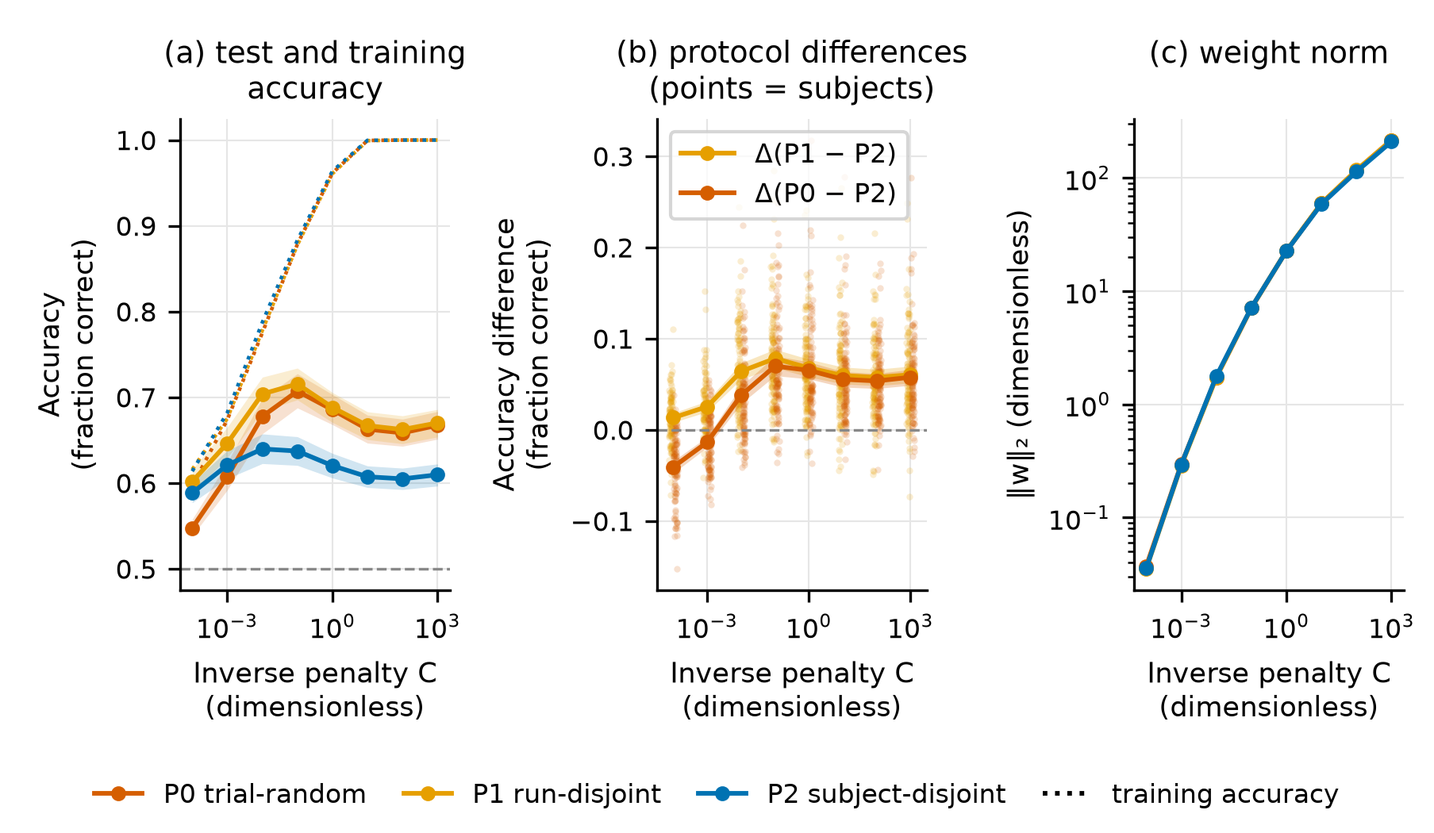
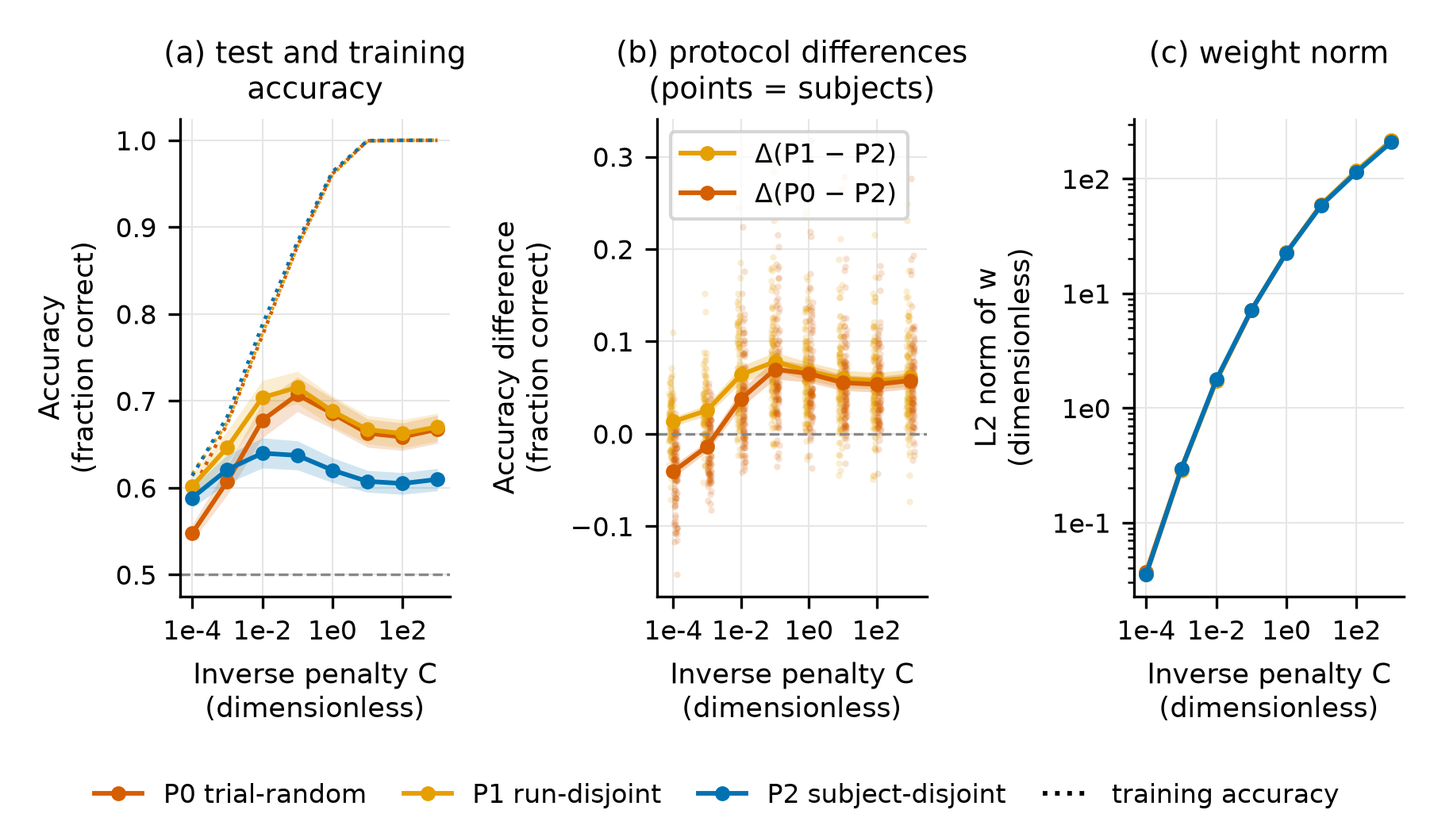
Revision suite r004: plain-label figure ticks with a rendered-glyph gate, caption corrections, concrete source index

diff --git a/test/experiments/revision/fig_common.py b/test/experiments/revision/fig_common.py
@@ -11,6 +11,12 @@ every figure is drawn at FIG_W_IN = 6.024 in, the measured text width of the com
 (433.70 pt on main_clean.pdf), and saved at exactly that canvas size (no bbox_inches="tight"), so the
 placement scale factor is 1.000 and the generated point sizes are the printed point sizes. No text is
 below 8 pt; MIN_PT below is asserted over every text artist before the file is written.
+
+Codex r003 finding F-r003-5: Text.get_fontsize() reports the PARENT size of a mathtext expression, so a
+$\\ell_2$ subscript or a 10^{-4} log-tick exponent passed that check while rendering at 5.6-6.0 pt. The
+vector companion is therefore written FIRST and re-measured with pymupdf (assert_pdf_min_glyph); a figure
+whose PDF carries any text span below MIN_PT is deleted, not published. plain_log_ticks() replaces the
+mathtext power-of-ten tick labels with plain strings drawn at the full tick font size.
 """
 
 from __future__ import annotations
@@ -30,6 +36,9 @@ FIG_DIR = C.ROOT / "result" / "figure" / "revision"
 # \linewidth of manuscript/v2 measured with fitz on main_clean.pdf: 433.70 pt = 6.024 in.
 FIG_W_IN = 6.024
 MIN_PT = 8.0  # IOP minimum text size at the final figure size
+# Width the figures actually occupy in main_clean.pdf (fitz, r003 audit): 433.718994 pt, i.e. the PDF
+# companion (6.024 in = 433.728 pt) is placed at scale 0.99998, so native pt == printed pt to 2e-4 pt.
+PLACED_W_PT = 433.718994
 
 # fixed hue order (Okabe–Ito), validated: protocols and models never share a slot within one figure
 PROTO_COLOR = {"within_subject": "#009E73", "within_session": "#009E73", "trial_random": "#D55E00", "trial_random_6": "#D55E00",
@@ -65,6 +74,73 @@ def min_font_pt(fig) -> float:
         if str(t.get_text()).strip() and t.get_visible():
             sizes.append(float(t.get_fontsize()))
     return min(sizes) if sizes else float("nan")
+
+
+def pdf_glyph_spans(pdf_path):
+    """(page width in pt, [(size_pt, text, font)]) for every non-blank text span of a saved figure PDF.
+
+    Measured with pymupdf on the vector companion, so these are the sizes the glyphs are ACTUALLY drawn
+    at — including mathtext sub/superscripts, which Text.get_fontsize() reports at the parent size.
+    """
+    import pymupdf  # noqa: PLC0415  (fitz; only needed when a figure is written)
+
+    doc = pymupdf.open(str(pdf_path))
+    page_w = float(doc[0].rect.width)
+    spans = []
+    for page in doc:
+        for block in page.get_text("rawdict").get("blocks", []):
+            for line in block.get("lines", []):
+                for span in line.get("spans", []):
+                    txt = "".join(ch["c"] for ch in span.get("chars", []))
+                    if txt.strip():
+                        spans.append((float(span["size"]), txt, str(span.get("font", ""))))
+    doc.close()
+    return page_w, spans
+
+
+def assert_pdf_min_glyph(pdf_path, name, min_pt=MIN_PT, delete_on_fail=True):
+    """Refuse a figure whose PDF companion carries a rendered glyph below min_pt at the placed width.
+
+    F-r003-5: this is the check that catches mathtext scaling. The figure is saved at FIG_W_IN, so the
+    page width must equal the placed width; the printed size of a span is size * PLACED_W_PT / page_w.
+    Returns the smallest printed size. Raises SystemExit (and removes the file) otherwise; also raises if
+    the PDF holds no text at all, so "verified nothing" cannot look like "nothing to verify".
+    """
+    pdf_path = Path(pdf_path)
+    page_w, spans = pdf_glyph_spans(pdf_path)
+
+    def fail(msg):
+        if delete_on_fail:
+            pdf_path.unlink(missing_ok=True)
+        raise SystemExit(f"{name}: {msg}")
+
+    if abs(page_w - FIG_W_IN * 72.0) > 0.5:
+        fail(f"pdf page width {page_w:.2f} pt != {FIG_W_IN * 72.0:.2f} pt (printed sizes would not be 1:1)")
+    if not spans:
+        fail(f"no text span found in {pdf_path.name} — the glyph guard would verify nothing")
+    scale = PLACED_W_PT / page_w
+    small = sorted({(round(s * scale, 4), t) for s, t, _ in spans if s * scale < min_pt - 1e-3})
+    if small:
+        for pt, t in small[:10]:
+            print(f"  GLYPH BELOW {min_pt} PT: {pt} pt {t!r}")
+        fail(f"{len(small)} rendered glyph size(s) below {min_pt} pt in the PDF companion (mathtext?)")
+    return min(s * scale for s, _, _ in spans)
+
+
+def plain_log_ticks(ax, which, values, fmt=None):
+    """Label a log axis with plain strings instead of 10^{x} mathtext (whose exponent renders at 5.6 pt).
+
+    `values` are the data positions to label; minor ticks keep their marks but lose their labels, so the
+    smallest glyph on the axis is the tick font size itself (F-r003-5).
+    """
+    from matplotlib.ticker import FixedFormatter, FixedLocator, NullFormatter
+
+    fmt = fmt or (lambda v: f"{v:g}")
+    axis = ax.xaxis if which == "x" else ax.yaxis
+    vals = list(values)
+    axis.set_major_locator(FixedLocator(vals))
+    axis.set_major_formatter(FixedFormatter([fmt(v) for v in vals]))
+    axis.set_minor_formatter(NullFormatter())
 
 
 def wrap_to_width(fig, text, fontsize, frac=0.97):
@@ -202,7 +278,8 @@ def save(fig, name: str, caption: str, data_files: list[Path]):
     """PNG (300 dpi) + PDF + caption .txt naming the data files; also a large-font pptx with the PNG.
 
     Saved at the exact canvas size (no tight bbox) so that the placed scale is 1.000; refuses to write
-    a figure whose canvas is not the manuscript line width or that carries text below MIN_PT.
+    a figure whose canvas is not the manuscript line width, that carries a text artist below MIN_PT, or
+    whose PDF companion contains a glyph rendered below MIN_PT (mathtext sub/superscripts, F-r003-5).
     """
     FIG_DIR.mkdir(parents=True, exist_ok=True)
     w_in, h_in = fig.get_size_inches()
@@ -219,10 +296,13 @@ def save(fig, name: str, caption: str, data_files: list[Path]):
         print("  TEXT OFF CANVAS:", c)
     if clashes or clipped:
         raise SystemExit(f"{name}: {len(clashes)} overlapping text pairs, {len(clipped)} texts off the canvas")
-    print(f"{name}: canvas {w_in:.3f} x {h_in:.3f} in, smallest text {smallest:.1f} pt (scale 1.000 at placement)")
     png = FIG_DIR / f"{name}.png"
+    pdf = FIG_DIR / f"{name}.pdf"
+    fig.savefig(pdf)  # vector companion first: it is what the rendered-glyph guard measures
+    min_glyph = assert_pdf_min_glyph(pdf, name)  # deletes the pdf and stops if any glyph prints < MIN_PT
     fig.savefig(png)
-    fig.savefig(FIG_DIR / f"{name}.pdf")
+    print(f"{name}: canvas {w_in:.3f} x {h_in:.3f} in, smallest text artist {smallest:.1f} pt, "
+          f"smallest rendered glyph {min_glyph:.4f} pt (scale 1.000 at placement)")
     def rel(p: Path) -> str:
         p = Path(p).resolve()
         return str(p.relative_to(C.ROOT)) if str(p).startswith(str(C.ROOT)) else str(p)

diff --git a/test/experiments/revision/fig4_sweep.py b/test/experiments/revision/fig4_sweep.py
@@ -1,6 +1,10 @@
 #!/usr/bin/env python3
-"""Figure 4 — regularization sweep v2 (E2): both accuracy curves, training accuracy, ||w||, and the
-protocol differences with per-subject points. Paradigm mean over the four EEGBCI paradigms.
+"""Figure 4 — regularization sweep v2 (E2): both accuracy curves, training accuracy, the L2 norm of w, and
+the protocol differences with per-subject points. Paradigm mean over the four EEGBCI paradigms.
+
+Codex r003 finding F-r003-5: the log axes were labelled by the default formatter as 10^{-4} mathtext, whose
+exponent printed at 5.6 pt. The decades are now labelled with plain strings at the full tick size, and
+fig_common.save() re-measures every glyph in the PDF companion before the figure is written.
 Usage: fig4_sweep.py --e2 <per_subject.csv> --tag rev1  (the per-fold CSV is found by name)
 """
 
@@ -19,6 +23,13 @@ import common as C  # noqa: E402
 import fig_common as F  # noqa: E402
 
 PROTOS = ["trial_random", "run_disjoint", "subject_disjoint"]
+# F-r003-5: the default log formatter writes 10^{-4} as mathtext, whose exponent prints at 5.6 pt.
+# These decades are labelled with plain "1e-4" strings instead (fig_common.plain_log_ticks), drawn at the
+# full tick size; the spelling is compact enough not to collide in a 1/3-width panel ("0.0001" does).
+C_TICKS = [1e-4, 1e-2, 1e0, 1e2]
+WNORM_TICKS = [1e-2, 1e-1, 1e0, 1e1, 1e2]
+DEC = lambda v: f"1e{round(np.log10(v)):.0f}"  # noqa: E731  plain decade label, no mathtext
+XLAB = "Inverse penalty C\n(dimensionless)"
 SHORT = {"trial_random": "P0 trial-random", "run_disjoint": "P1 run-disjoint", "subject_disjoint": "P2 subject-disjoint"}
 
 
@@ -60,7 +71,7 @@ def main() -> int:
         ax.plot(Cs, [np.mean(tr_acc[(p, c)]) for c in Cs], ls=":", lw=1.1, color=F.PROTO_COLOR[p])
         cap.append(f"{p}: " + ", ".join(f"C={c:g}: {m:.3f}" for c, m in zip(Cs, means)))
     ax.plot([], [], ls=":", color="black", label="training accuracy")
-    ax.set_xscale("log"); ax.set_xlabel("Inverse penalty C\n(dimensionless)"); ax.set_ylabel("Accuracy\n(fraction correct)")
+    ax.set_xscale("log"); F.plain_log_ticks(ax, "x", C_TICKS, DEC); ax.set_xlabel(XLAB); ax.set_ylabel("Accuracy\n(fraction correct)")
     ax.axhline(0.5, color="#888888", lw=0.8, ls="--"); ax.set_title("(a) test and training\naccuracy")
     handles_a, labels_a = ax.get_legend_handles_labels()
     ax = axes[1]
@@ -78,19 +89,21 @@ def main() -> int:
         ax.plot(Cs, means, marker="o", ms=3.5, color=col, label=lab, zorder=5)
         ax.fill_between(Cs, los, his, color=col, alpha=0.25, linewidth=0, zorder=4)
         cap.append(f"{lab}: " + ", ".join(f"C={c:g}: {m:+.3f} [{lo:+.3f},{hi:+.3f}]" for c, m, lo, hi in zip(Cs, means, los, his)))
-    ax.axhline(0, color="#888888", lw=0.8, ls="--"); ax.set_xscale("log"); ax.set_xlabel("Inverse penalty C\n(dimensionless)"); ax.set_ylabel("Accuracy difference\n(fraction correct)")
+    ax.axhline(0, color="#888888", lw=0.8, ls="--"); ax.set_xscale("log"); F.plain_log_ticks(ax, "x", C_TICKS, DEC); ax.set_xlabel(XLAB); ax.set_ylabel("Accuracy difference\n(fraction correct)")
     ax.legend(loc="upper left", frameon=True); ax.set_title("(b) protocol differences\n(points = subjects)")
     ax = axes[2]
     for p in PROTOS:
         ax.plot(Cs, [np.mean(wn[(p, c)]) for c in Cs], marker="o", ms=3.5, color=F.PROTO_COLOR[p])
-    ax.set_xscale("log"); ax.set_yscale("log"); ax.set_xlabel("Inverse penalty C\n(dimensionless)"); ax.set_ylabel("‖w‖₂ (dimensionless)")
+    ax.set_xscale("log"); ax.set_yscale("log")
+    F.plain_log_ticks(ax, "x", C_TICKS, DEC); F.plain_log_ticks(ax, "y", WNORM_TICKS, DEC)
+    ax.set_xlabel(XLAB); ax.set_ylabel("L2 norm of w\n(dimensionless)")
     ax.set_title("(c) weight norm\n")
     fig.legend(handles_a, labels_a, loc="lower center", ncol=4, frameon=False, fontsize=8, columnspacing=1.4, handlelength=1.8, bbox_to_anchor=(0.5, 0.0))
     fig.tight_layout(rect=(0, 0.085, 1, 1), w_pad=1.2)
     caption = ("Figure 4. Regularization sweep of the tangent-space logistic regression on EEGBCI (paradigm mean over four paradigms, 109 subjects). "
                "(a) Test accuracy under P0 trial-random, P1 run-disjoint and P2 subject-disjoint splits (solid, mean with subject-bootstrap 95 % CI band) and the "
-               "corresponding training accuracy (dotted, mean over folds) as a function of the inverse penalty C (larger C = weaker regularization). "
-               "(b) Per-subject differences Δ(P1 − P2) and Δ(P0 − P2) (points = subjects, jittered; line = mean; band = 95 % CI). (c) l2 norm of the fitted weight vector (mean over folds). "
+               "corresponding training accuracy (dotted, mean over folds) as a function of the inverse penalty C (larger C = weaker regularization; C on a logarithmic axis, decades labelled 1e-4 = 0.0001). "
+               "(b) Per-subject differences Δ(P1 − P2) and Δ(P0 − P2) (points = subjects, jittered; line = mean; band = 95 % CI). (c) L2 norm of the fitted weight vector (mean over folds; both axes logarithmic). "
                "Values: " + " | ".join(cap))
     F.save(fig, f"fig4_sweep_{args.tag}", caption, [Path(args.e2)])
     return 0

diff --git a/test/experiments/revision/fig5_mechanism.py b/test/experiments/revision/fig5_mechanism.py
@@ -68,11 +68,13 @@ def main() -> int:
         ax.bar(np.arange(4) + (ti - (len(tasks) - 1) / 2) * w, vals, width=w * 0.95, label=C.TASK_SHORT[t], color=["#0072B2", "#56B4E9", "#009E73", "#CC79A7"][ti % 4], linewidth=0)
         group_vals[t] = vals
         cap.append(f"subject-ID {C.TASK_SHORT[t]}: " + ", ".join(f"{l.replace(chr(10), ' ')} {v:.3f}" for l, v in zip(labels, vals)))
-    # D-30: a bar of height zero must not read as "not evaluated" -> print the value over the whole group
+    # D-30: a bar of height zero must not read as "not evaluated" -> print the value over the whole group.
+    # F-r003-3: the printed number is the GROUP MEAN over the four paradigms, exactly as the caption says
+    # (the underlying scores are 0 or 2.04e-4, so the mean rounds to 0.000 but is not identically zero).
     for ci in range(4):
         col = [group_vals[t][ci] for t in tasks if not np.isnan(group_vals[t][ci])]
-        if col and max(col) < 0.0005:
-            ax.text(ci, 0.03, f"{max(col):.3f}", ha="center", va="bottom", fontsize=8, color="#333333")
+        if col and max(col) < 0.0005:  # every bar of the group is invisible at this scale
+            ax.text(ci, 0.03, f"{float(np.mean(col)):.3f}", ha="center", va="bottom", fontsize=8, color="#333333")
     chance = float(a[0]["chance"])
     ax.axhline(chance, color="#888888", lw=0.8, ls="--")
     ax.set_xticks(range(4)); ax.set_xticklabels(labels, fontsize=8); ax.set_ylabel("Subject-identity accuracy\n(fraction correct)"); ax.set_ylim(0, 1.45)
@@ -133,7 +135,7 @@ def main() -> int:
     caption = ("Figure 5. Subject information in the tangent-space features (EEGBCI, 109 subjects). (a) Fraction of the total sum of squares of the tangent features "
                "attributable to subject, class, subject × class (cell means) and residual, in a common tangent space (reference = Fréchet mean of all trials; descriptive only). "
                "(b) Accuracy of a multinomial logistic regression predicting the subject (109 classes) from tangent features under the trial-random (P0) and run-disjoint (P1) splits, "
-               "raw and after removing each subject's feature mean (subject-centred); dashed = chance; the printed 0.000 marks groups that were evaluated and scored zero, not missing bars. (c) Per-subject differences Δ(P1 − P2) and Δ(P0 − P2) for TS+LR (C = 1) with the original features, "
+               "raw and after removing each subject's feature mean (subject-centred); dashed = chance; the subject-centred groups were evaluated, not omitted: their identity accuracy after per-subject centring is printed above the bars as the four-paradigm group mean, which rounds to 0.000. (c) Per-subject differences Δ(P1 − P2) and Δ(P0 − P2) for TS+LR (C = 1) with the original features, "
                "after subtracting each subject's feature mean, and after Riemannian recentering (points = subjects; bar = mean; whisker = 95 % CI). "
                "(d) Alignment of the fitted weight vector w with the subject-specific class-separation directions d_s and with the global direction (points = folds × seeds). Values: " + " | ".join(cap))
     F.save(fig, f"fig5_mechanism_{args.tag}", caption, files)

diff --git a/test/experiments/revision/fig6_dimension.py b/test/experiments/revision/fig6_dimension.py
@@ -7,6 +7,9 @@ Codex r002 finding F-r002-2: for N < 109 the interval in (c) is a bootstrap over
 averaging the four paradigms within each matching draw (same draw id across paradigms), not over the 40
 paradigm x draw cells; no interval at N = 109, where a single draw exists. N is the number of SAMPLED
 subjects (P2 trains on about 2N/3 of them).
+Codex r003 finding F-r003-5: the logarithmic x axes of (a) and (c) are labelled with the plain d and N
+values (no 10^{x} mathtext, whose exponent printed at 5.6 pt), and fig_common.save() re-measures every
+glyph of the PDF companion before the figure is written.
 Usage: fig6_dimension.py --e4 <per_subject.csv> --e8 <per_draw.csv> --tag rev1
 """
 
@@ -25,6 +28,10 @@ import common as C  # noqa: E402
 import fig_common as F  # noqa: E402
 
 SHORT = {"trial_random": "P0 trial-random", "run_disjoint": "P1 run-disjoint", "subject_disjoint": "P2 subject-disjoint"}
+# F-r003-5: the default log formatter labelled the (a) x axis 10^{1}, 10^{2}, 10^{3} as mathtext, whose
+# exponent printed at 5.6 pt. Both log axes are now labelled with the plain d and N values themselves.
+D_TICKS = [2, 8, 32, 128, 512, 2080]
+INT = lambda v: f"{int(round(v))}"  # noqa: E731  plain integer tick label, no mathtext
 
 
 def main() -> int:
@@ -66,7 +73,8 @@ def main() -> int:
     ax2.axhline(0, color="#E69F00", lw=0.6, ls=":"); ax2.set_ylabel("Δ(P1 − P2)\n(fraction correct)", color="#B07800"); ax2.tick_params(axis="y", colors="#B07800")
     ax2.grid(False)
     cap.append("PCA Δ(P1−P2): " + ", ".join(f"d={d}: {m:+.3f} [{lo:+.3f},{hi:+.3f}]" for d, m, lo, hi in zip(ds, dm, dl, dh)))
-    ax.set_xscale("log"); ax.set_xlabel("Tangent-feature dimension after PCA (count)"); ax.set_ylabel("Accuracy\n(fraction correct)")
+    ax.set_xscale("log"); F.plain_log_ticks(ax, "x", [d for d in D_TICKS if d in ds], INT)
+    ax.set_xlabel("Tangent-feature dimension after PCA (count)"); ax.set_ylabel("Accuracy\n(fraction correct)")
     ax.axhline(0.5, color="#888888", lw=0.8, ls="--"); ax.set_title("(a) PCA-dimension sweep (TS+LR, C = 1)")
     ax.set_ylim(top=0.80)  # headroom for the legend so it never covers a curve
     h1, l1 = ax.get_legend_handles_labels(); h2, l2 = ax2.get_legend_handles_labels()
@@ -122,7 +130,7 @@ def main() -> int:
         ax.fill_between([xs[i] for i in ok], [los[i] for i in ok], [his[i] for i in ok], color=F.MODEL_COLOR[m], alpha=0.2, linewidth=0)
         cap.append(f"{lab} vs N: " + ", ".join((f"N={N}: {mm:+.3f} [{lo:+.3f},{hi:+.3f}] (10 draws)" if lo == lo else f"N={N}: {mm:+.3f} (single draw, no interval)")
                                                for N, mm, lo, hi in zip(xs, means, los, his)))
-    ax.axhline(0, color="#888888", lw=0.8, ls="--"); ax.set_xscale("log"); ax.set_xticks(Ns); ax.set_xticklabels(Ns)
+    ax.axhline(0, color="#888888", lw=0.8, ls="--"); ax.set_xscale("log"); F.plain_log_ticks(ax, "x", Ns, INT)
     ax.set_xlabel("Sampled subjects N (count; P2 trains on about 2N/3 of them)")
     ax.set_ylabel("Δ(P0 − P2)\n(fraction correct)")
     ax.set_ylim(top=ax.get_ylim()[1] + 0.06)  # headroom so the legend never sits on the curves

diff --git a/test/experiments/revision/fig7_calibration.py b/test/experiments/revision/fig7_calibration.py
@@ -4,7 +4,11 @@ value; per-subject points.
 
 Codex r002 finding F-r002-5: k is a CAP (nominal k). The availability table is read so that the caption
 states how many subject-paradigm cells fell short of the nominal k, and the within-subject line is labelled
-as an UNMATCHED reference (trained on all three runs under a different protocol; orientation only).
+as an UNMATCHED reference (orientation only, not a paired comparison).
+
+Codex r003 finding F-r003-4: that reference is a LEAVE-ONE-RUN-OUT fit — e1_ladder_classical.within_splits()
+and e11_within_deep.py train on two runs of the test subject and score the held-out run, rotating over the
+three runs — not a fit "trained on all three runs". The caption now says so.
 Usage: fig7_calibration.py --e12 <csv,csv> --e1 <e1 eegbci per_subject.csv> --e11 <csv,csv> [--avail <csv>] --tag rev1
 """
 
@@ -94,8 +98,9 @@ def main() -> int:
     caption = (f"Figure 7. Calibration-size curve for unseen subjects on EEGBCI ({' and '.join(C.TASK_SHORT[t] for t in tasks)}; mean over these paradigms; 109 subjects). A subject-disjoint model (P2 training subjects) receives "
                "up to k labelled trials of the test subject (k is a nominal cap drawn from the subject's first two runs, 3 draws averaged) and is evaluated on the subject's third run; CSP+LDA and TS+LR are refitted with the k trials appended, "
                "EEGNet is fine-tuned for 20 epochs. Nominal versus actually available calibration trials: " + note + " "
-               "Points = subjects; line = mean; band = subject-bootstrap 95 % CI; dotted = chance. The dashed green line is the within-subject (leave-one-run-out) mean of the same decoder: it is trained on all three runs "
-               "of the test subject under a different protocol, so it is an UNMATCHED reference shown for orientation only and is not a paired comparison with the k-trial curve. "
+               "Points = subjects; line = mean; band = subject-bootstrap 95 % CI; dotted = chance. The dashed green line is the within-subject (leave-one-run-out) mean of the same decoder: each fit is trained on two runs "
+               "of the test subject and evaluated on the held-out run, rotated over the three runs, so it follows a different protocol from the k-trial curve (which is always scored on the third run) and is an "
+               "UNMATCHED reference shown for orientation only, not a paired comparison with the k-trial curve. "
                "Values: " + " | ".join(cap))
     F.save(fig, f"fig7_calibration_{args.tag}", caption, files + [Path(args.avail)])
     return 0

diff --git a/test/experiments/revision/make_fig1_workflow.py b/test/experiments/revision/make_fig1_workflow.py
@@ -8,6 +8,10 @@ scale is 1.000 and the in-box text prints at its generated size (>= 8 pt) instea
 stages are laid out 3 x 2 so that each panel is wide enough for 8.5 pt text. Three checks run before the
 file is written: figkit check_overlaps() (boxes), text inside its own panel, and nothing off the canvas.
 
+F-r003-5: the decoder panel used mathtext ($\\ell_2$), whose subscript printed at 5.95 pt although the text
+artist reported 8.5 pt. It now reads "L2-penalized", and the PDF companion is written first and re-measured
+glyph by glyph with pymupdf (fig_common.assert_pdf_min_glyph) before the PNG is written.
+
 F-r002-4: the matched training fraction is stated as EEGBCI-only (the IV-2a fractions differ).
 Built with the lab's figkit toolkit.
 """
@@ -49,7 +53,7 @@ STAGES = [
     ]),
     ("Decoders", "purple", [
         "CSP+LDA — 6 log-variance features",
-        "TS+LR — OAS covariance, tangent space at the training Fréchet mean, $\\ell_2$ logistic regression (2080 / 253 features)",
+        "TS+LR — OAS covariance, tangent space at the training Fréchet mean, L2-penalized logistic regression (2080 / 253 features)",
         "ShallowFBCSPNet, EEGNet (parameter counts reported)",
     ]),
     ("Protocols", "red", [
@@ -219,9 +223,12 @@ def main() -> int:
     if overlaps or bad or off or small or clashes:
         return 1
     out = OUT_DIR / "fig1_workflow_rev1.png"
+    pdf = out.with_suffix(".pdf")
+    f.fig.savefig(str(pdf), facecolor="white")                   # vector companion first: the glyph guard reads it
+    min_glyph = F.assert_pdf_min_glyph(pdf, "fig1_workflow_rev1")  # F-r003-5: real rendered sizes, mathtext included
     f.fig.savefig(str(out), dpi=300, facecolor="white")          # exact canvas: scale 1.000 at \linewidth
-    f.fig.savefig(str(out.with_suffix(".pdf")), facecolor="white")
-    print(f"fig1_workflow_rev1: canvas {FIG_W_IN:.3f} x {FIG_H_IN:.3f} in, smallest text {BODY_FS:.1f} pt (scale 1.000 at placement)")
+    print(f"fig1_workflow_rev1: canvas {FIG_W_IN:.3f} x {FIG_H_IN:.3f} in, smallest text artist {BODY_FS:.1f} pt, "
+          f"smallest rendered glyph {min_glyph:.4f} pt (scale 1.000 at placement)")
     print("saved", out)
     return 0
 

diff --git a/test/experiments/revision/make_tables.py b/test/experiments/revision/make_tables.py
@@ -107,7 +107,7 @@ def main() -> int:
     lines = [r"\begin{table}", r"\caption{BCI-IV-2a (9 subjects, left- versus right-hand imagery): mean accuracy with the subject-bootstrap 95\,\% CI and paired per-subject differences. "
              r"Protocols: within = session-to-session inside each subject (both directions averaged; training fraction 1/2); P0a = trial-random 6-fold (5/6); P1 = run-disjoint subject-overlapping 6-fold (5/6); "
              r"P0b = trial-random 2-fold (1/2); P1s = session-disjoint subject-overlapping 2-fold (1/2); P2 = leave-one-subject-out (8/9). "
-             r"$p$: exact conditional two-sided signed-rank test ($n=9$; zeros dropped, tied ranks averaged; the smallest attainable raw $p$ is 0.0039 when all nine differences are nonzero); $p_{\rm Holm}$: Holm-adjusted over the 24 contrasts displayed in this table, so no adjusted value can fall below 0.0938 ($24 \times 2/2^{9}$); $n_+$ = number of subjects with a positive difference. The lower block reports the mean paired difference over the nine subjects with its subject-bootstrap CI; the individual subject differences are in the released per-subject files. Sign-flip permutation $p$-values are in the released statistics file. $p$-values are displayed rounded to three decimals.}",
+             r"$p$: exact conditional two-sided signed-rank test ($n=9$; zeros dropped, tied ranks averaged; the smallest attainable raw $p$ is 0.0039 when all nine differences are nonzero); $p_{\rm Holm}$: Holm-adjusted over the 24 contrasts displayed in this table, so no adjusted value can fall below 0.09375 ($= 24 \times 2/2^{9}$); $n_+$ = number of subjects with a positive difference. The lower block reports the mean paired difference over the nine subjects with its subject-bootstrap CI; the individual subject differences are in the released per-subject files. Sign-flip permutation $p$-values are in the released statistics file. $p$-values are displayed rounded to three decimals.}",
              r"\label{tab:bci2a}", r"\centering", TIGHT, r"\begin{tabular}{l c c c}", r"\hline",
              r"Decoder & within & P0a trial-random & P1 run-disjoint \\", r"\hline"]
     for m in ("csp_lda", "riemann_ts_lr", "shallow_fbcsp", "eegnet_v4"):

diff --git a/test/experiments/revision/line_numbers.py b/test/experiments/revision/line_numbers.py
@@ -9,7 +9,7 @@ pdf = sys.argv[1]; phrases = sys.argv[2:]
 doc = fitz.open(pdf)
 heads = ["1 Introduction", "2 Methods", "2.1 Datasets", "2.2 Preprocessing", "2.3 Decoders", "2.4 Protocol ladder", "2.5 Controlled analyses",
          "2.6 Statistical analysis", "2.7 Reproducibility", "3 Results", "3.1 The protocol ladder on EEGBCI", "3.2 The ladder on BCI-IV-2a",
-         "3.3 Regularization does not remove", "3.4 Where the subject information lives", "3.5 The reference mean", "3.6 Feature dimension and training-subject",
+         "3.3 Regularization does not remove", "3.4 Where the subject information lives", "3.5 The reference mean", "3.6 Feature dimension and sampled-subject",
          "3.7 Network width and matched preprocessing", "3.8 Calibration", "3.9 Exploratory", "4 Discussion", "5 Conclusion", "Acknowledgments", "Funding",
          "Data availability", "Disclosure of AI-assisted tools", "References"] + phrases
 rows = []

diff --git a/results/revision/SOURCES.md b/results/revision/SOURCES.md
@@ -9,13 +9,13 @@ Every table, figure caption and numerical claim of the manuscript is generated f
 | Table 3 (EEGBCI ladder, 12-contrast Holm family), Table 4 (BCI-IV-2a, 24-contrast family), Table S1 (per-paradigm ladder, 48-contrast family), Table S8 (preprocessing controls, 8-contrast family) | stats_rev1_contrasts.csv (columns family, family_size, p_holm, n_positive/n_negative/n_zero from the 12-decimal-rounded differences), stats_rev1_ladder_means.csv | e_stats.py → make_tables.py |
 | Table 5 (reference tests: E6 target-in-reference, E14 transductive; TOST decisions unadjusted, Wilcoxon p Holm-adjusted over the 11 rows) | stats_rev1_tost.csv | e_stats.py → make_tables.py |
 | Table S2 (classifiers, 18-contrast family), Figure S1 | stats_rev1_e5_contrasts.csv | e_stats.py → make_tables.py, figS2_classifiers.py |
-| Table S3 (centring / recentering, 6-contrast family), Figure 5(c) | stats_rev1_e3c_contrasts.csv; e3_rev1_*.csv (identity, variance, alignment) | e_stats.py, e3_subject_info.py |
+| Table S3 (centring / recentering, 6-contrast family), Figure 5(c) | stats_rev1_e3c_contrasts.csv; e3a_rev1.csv (identity decoding), e3b_rev1.csv (variance decomposition), e3d_rev1.csv (weight alignment) | e_stats.py, e3_subject_info.py |
 | Table S4 (regularization sweep, 16 tests), Figure 4 | stats_rev1_e2_sweep.csv | e_stats.py |
 | Table S5 (PCA sweep, 22 tests), Figure 6(a) | stats_rev1_e4_sweep.csv | e_stats.py |
 | Table S6 (width sweeps, 10 tests), Figure 7 | stats_rev1_width.csv | e_stats.py |
 | Table S7 (factorial; OLS with centred regressors, bootstrap over whole draws within each N), Figure 6(b,c) | stats_rev1_factorial.csv; e8_rev1_per_draw.csv | e_stats.py, fig6_dimension.py |
 | Table S9 (exploratory stratification; all five seeds) | e15_rev1_summary.csv, e15_rev1_per_cell.csv | make_tables.py |
-| Table S10 (network training details) | e9_rev1_all_per_fold.csv, e11_rev1_all_per_fold.csv, e10_rev1_per_fold.csv | make_tables.py |
+| Table S10 (network training details) | e9_rev1_all_per_fold.csv, e11_rev1_t12_per_fold.csv, e11_rev1_t34_per_fold.csv, e10_rev1_per_fold.csv | make_tables.py |
 | Table S11 and Figure 8 (calibration curve; 12-contrast family; k is a cap) | stats_rev1_e12_calibration.csv; e12_rev1_availability.csv | e12_stats.py |
 | Table S12 (original five-fold subject-grouped split vs LOSO, descriptive) | stats_rev1_contrasts.csv (family "none", contrast groupkfold5_vs_loso), stats_rev1_ladder_means.csv | make_tables.py |
-| Per-subject inputs | e1_*_rev1_per_subject.csv, e9/e10/e11/e2/e4/e5/e3c/e6/e14/e7 per-subject files, e8_rev1_per_draw.csv | experiment scripts |
+| Per-subject inputs | e1_eegbci_rev1_per_subject.csv, e1_bci2a_rev1_per_subject.csv, e1_eegbci_rev1_ztrial_per_subject.csv, e9_rev1_all_per_subject.csv, e9_rev1_global_all_per_subject.csv, e10_rev1_per_subject.csv, e11_rev1_all_per_subject.csv, e2_rev1_per_subject.csv, e4_rev1_per_subject.csv, e5_rev1_per_subject.csv, e3c_rev1_per_subject.csv, e6_rev1_per_subject.csv, e14_rev1_per_subject.csv, e7_rev1_width_all_per_subject.csv, e8_rev1_per_draw.csv, e12_rev1_mi_lr_per_subject.csv, e12_rev1_mi_ff_per_subject.csv | experiment scripts |
